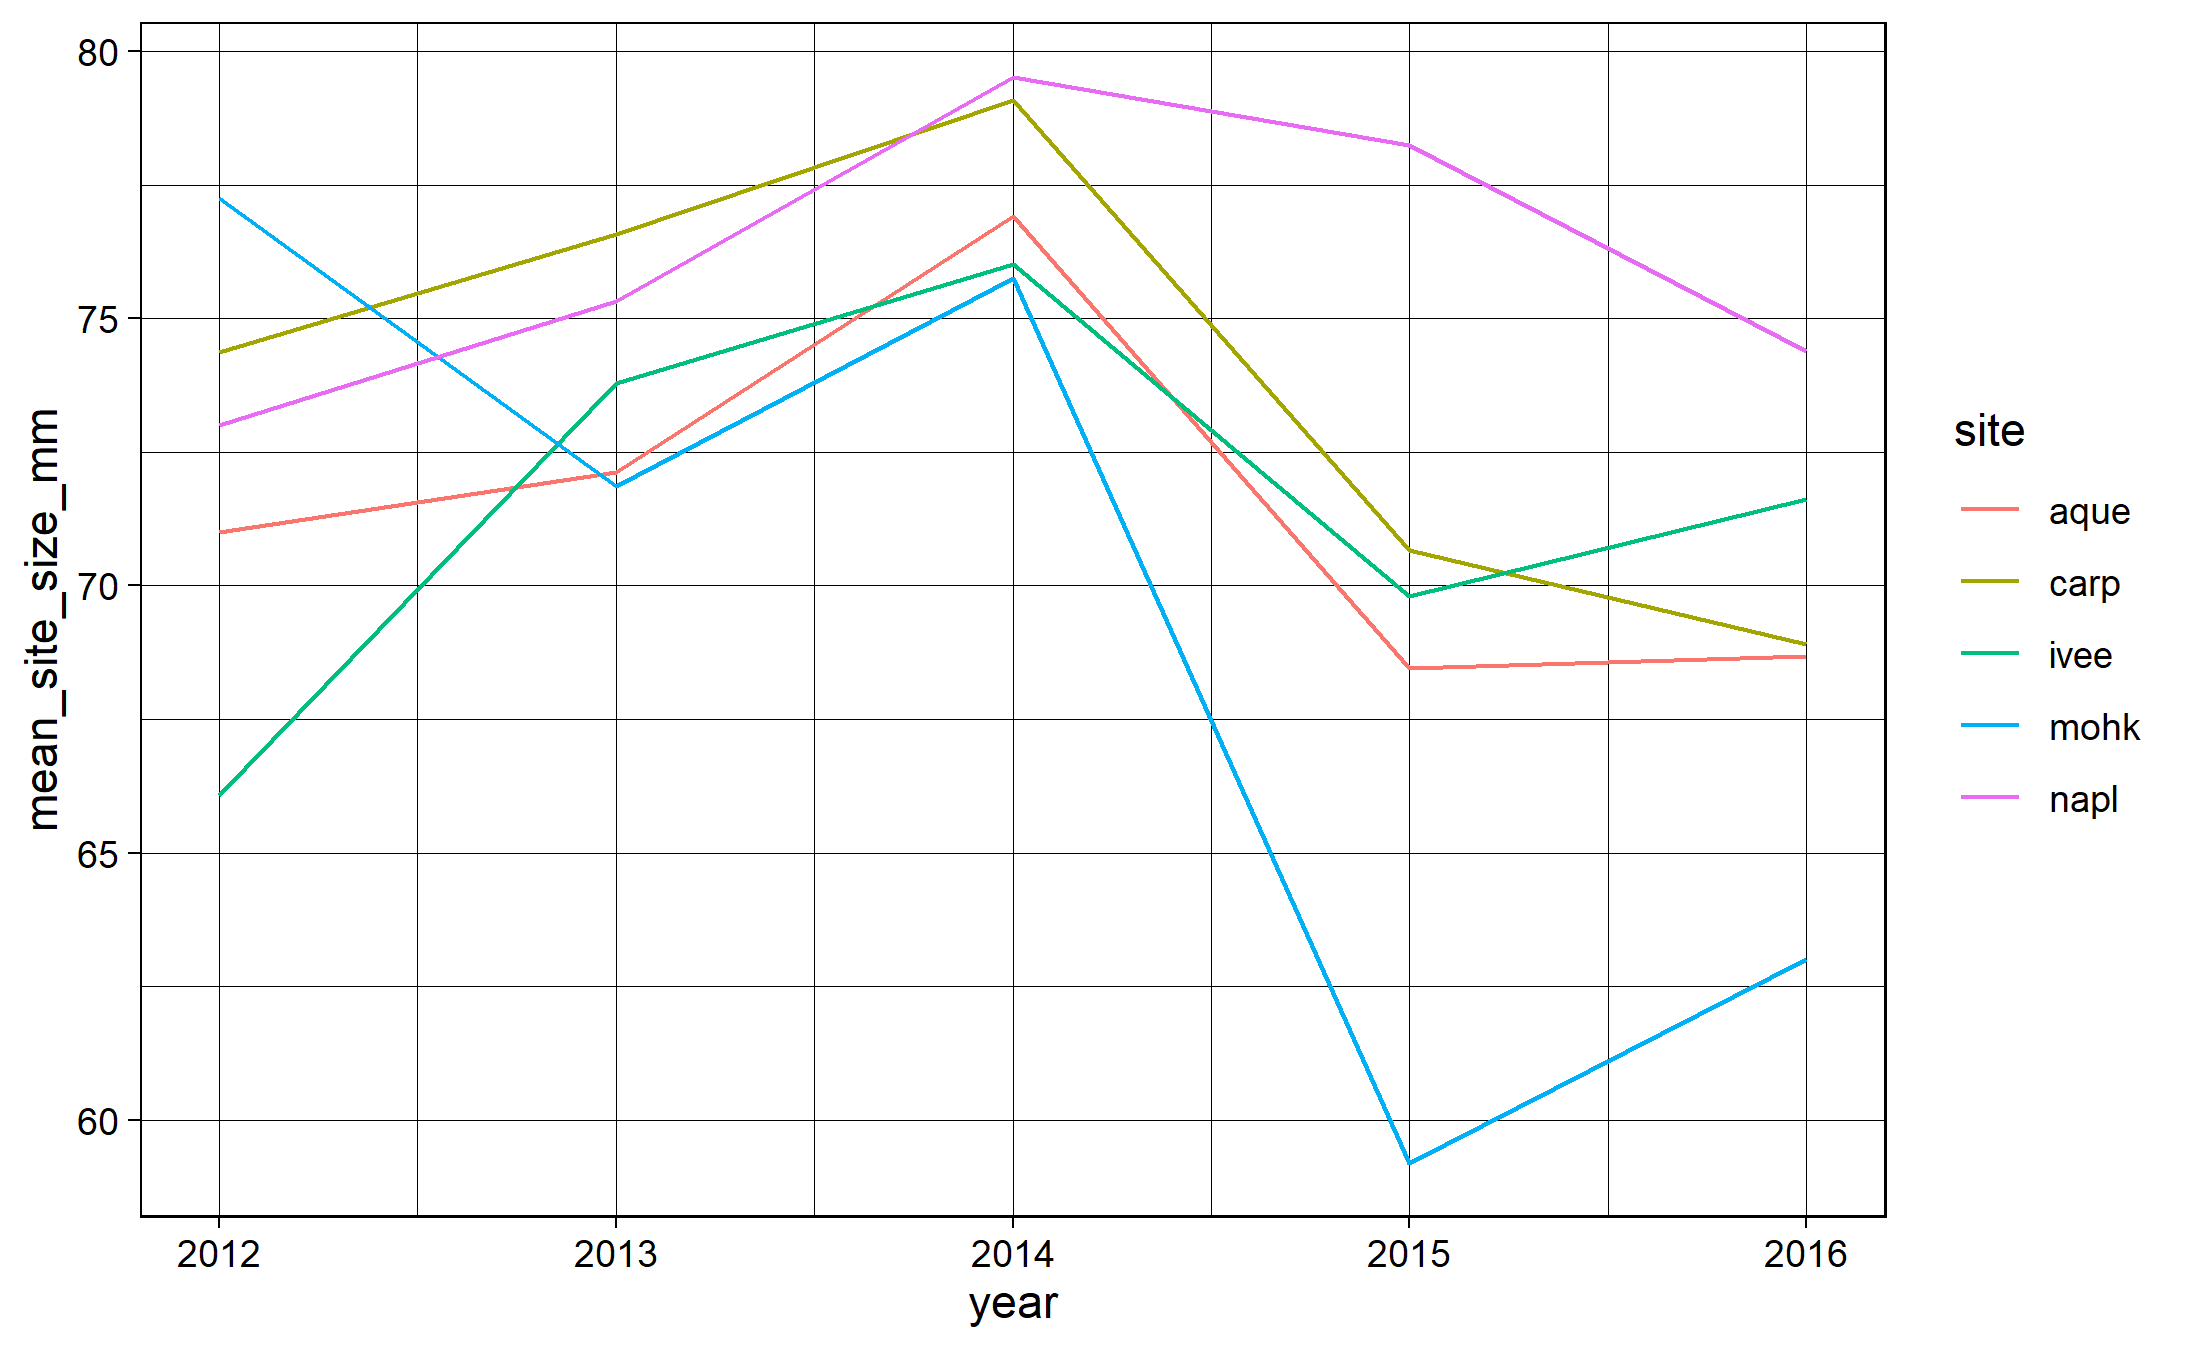
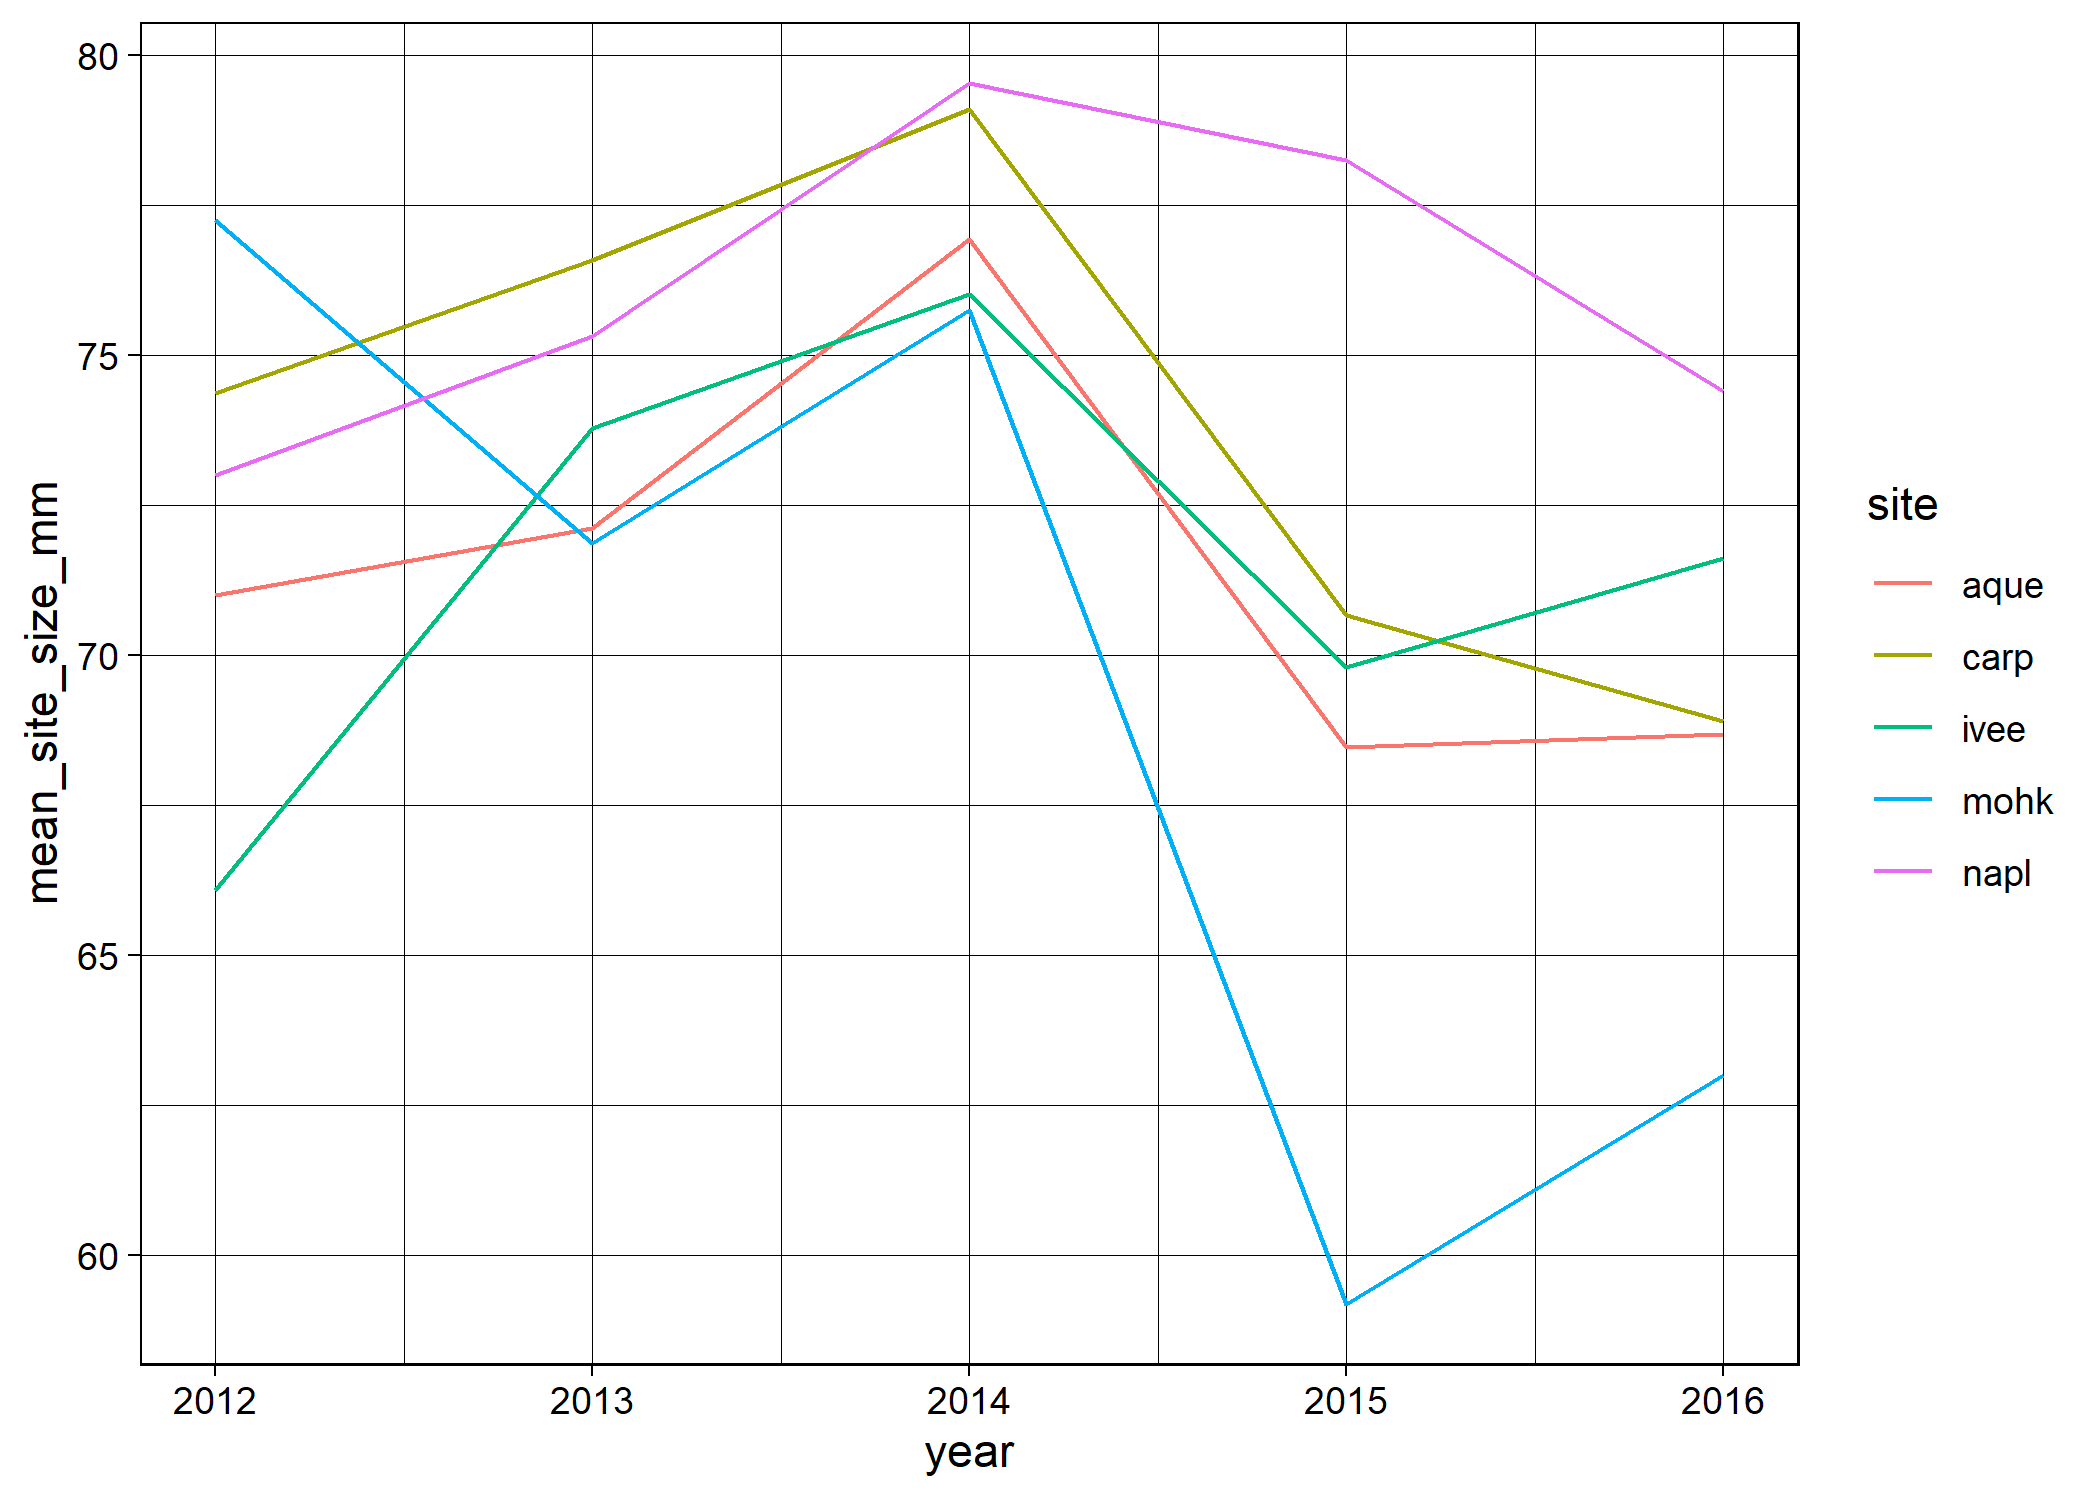
updated the knit

diff --git a/pivot_lobsters.html b/pivot_lobsters.html
@@ -1282,6 +1282,327 @@ napl
 </table>
 <p>There are 2893 total lobsters included in this report.</p>
 </div>
+<div id="analysis" class="section level2">
+<h2>Analysis</h2>
+<p>Here we will: - Build a median lobster size for each site and year - Create a ggplot and save it</p>
+<div id="lobster-size-median-by-site" class="section level3">
+<h3>Lobster Size Median by site</h3>
+<pre class="r"><code>#lobsta_site_year_sum
+
+
+lobsta_med &lt;-
+  lobsta_site_year_sum %&gt;% 
+  group_by(site,year) %&gt;% 
+  summarise(mean_site_size_mm = round(mean(mean_size_mm, na.rm = TRUE),2),
+                     )
+
+lobsta_med %&gt;%
+  kable()</code></pre>
+<table>
+<thead>
+<tr>
+<th style="text-align:left;">
+site
+</th>
+<th style="text-align:right;">
+year
+</th>
+<th style="text-align:right;">
+mean_site_size_mm
+</th>
+</tr>
+</thead>
+<tbody>
+<tr>
+<td style="text-align:left;">
+aque
+</td>
+<td style="text-align:right;">
+2012
+</td>
+<td style="text-align:right;">
+71.00
+</td>
+</tr>
+<tr>
+<td style="text-align:left;">
+aque
+</td>
+<td style="text-align:right;">
+2013
+</td>
+<td style="text-align:right;">
+72.12
+</td>
+</tr>
+<tr>
+<td style="text-align:left;">
+aque
+</td>
+<td style="text-align:right;">
+2014
+</td>
+<td style="text-align:right;">
+76.92
+</td>
+</tr>
+<tr>
+<td style="text-align:left;">
+aque
+</td>
+<td style="text-align:right;">
+2015
+</td>
+<td style="text-align:right;">
+68.46
+</td>
+</tr>
+<tr>
+<td style="text-align:left;">
+aque
+</td>
+<td style="text-align:right;">
+2016
+</td>
+<td style="text-align:right;">
+68.69
+</td>
+</tr>
+<tr>
+<td style="text-align:left;">
+carp
+</td>
+<td style="text-align:right;">
+2012
+</td>
+<td style="text-align:right;">
+74.36
+</td>
+</tr>
+<tr>
+<td style="text-align:left;">
+carp
+</td>
+<td style="text-align:right;">
+2013
+</td>
+<td style="text-align:right;">
+76.57
+</td>
+</tr>
+<tr>
+<td style="text-align:left;">
+carp
+</td>
+<td style="text-align:right;">
+2014
+</td>
+<td style="text-align:right;">
+79.09
+</td>
+</tr>
+<tr>
+<td style="text-align:left;">
+carp
+</td>
+<td style="text-align:right;">
+2015
+</td>
+<td style="text-align:right;">
+70.66
+</td>
+</tr>
+<tr>
+<td style="text-align:left;">
+carp
+</td>
+<td style="text-align:right;">
+2016
+</td>
+<td style="text-align:right;">
+68.90
+</td>
+</tr>
+<tr>
+<td style="text-align:left;">
+ivee
+</td>
+<td style="text-align:right;">
+2012
+</td>
+<td style="text-align:right;">
+66.08
+</td>
+</tr>
+<tr>
+<td style="text-align:left;">
+ivee
+</td>
+<td style="text-align:right;">
+2013
+</td>
+<td style="text-align:right;">
+73.78
+</td>
+</tr>
+<tr>
+<td style="text-align:left;">
+ivee
+</td>
+<td style="text-align:right;">
+2014
+</td>
+<td style="text-align:right;">
+76.02
+</td>
+</tr>
+<tr>
+<td style="text-align:left;">
+ivee
+</td>
+<td style="text-align:right;">
+2015
+</td>
+<td style="text-align:right;">
+69.80
+</td>
+</tr>
+<tr>
+<td style="text-align:left;">
+ivee
+</td>
+<td style="text-align:right;">
+2016
+</td>
+<td style="text-align:right;">
+71.62
+</td>
+</tr>
+<tr>
+<td style="text-align:left;">
+mohk
+</td>
+<td style="text-align:right;">
+2012
+</td>
+<td style="text-align:right;">
+77.25
+</td>
+</tr>
+<tr>
+<td style="text-align:left;">
+mohk
+</td>
+<td style="text-align:right;">
+2013
+</td>
+<td style="text-align:right;">
+71.87
+</td>
+</tr>
+<tr>
+<td style="text-align:left;">
+mohk
+</td>
+<td style="text-align:right;">
+2014
+</td>
+<td style="text-align:right;">
+75.75
+</td>
+</tr>
+<tr>
+<td style="text-align:left;">
+mohk
+</td>
+<td style="text-align:right;">
+2015
+</td>
+<td style="text-align:right;">
+59.20
+</td>
+</tr>
+<tr>
+<td style="text-align:left;">
+mohk
+</td>
+<td style="text-align:right;">
+2016
+</td>
+<td style="text-align:right;">
+63.01
+</td>
+</tr>
+<tr>
+<td style="text-align:left;">
+napl
+</td>
+<td style="text-align:right;">
+2012
+</td>
+<td style="text-align:right;">
+73.00
+</td>
+</tr>
+<tr>
+<td style="text-align:left;">
+napl
+</td>
+<td style="text-align:right;">
+2013
+</td>
+<td style="text-align:right;">
+75.32
+</td>
+</tr>
+<tr>
+<td style="text-align:left;">
+napl
+</td>
+<td style="text-align:right;">
+2014
+</td>
+<td style="text-align:right;">
+79.52
+</td>
+</tr>
+<tr>
+<td style="text-align:left;">
+napl
+</td>
+<td style="text-align:right;">
+2015
+</td>
+<td style="text-align:right;">
+78.24
+</td>
+</tr>
+<tr>
+<td style="text-align:left;">
+napl
+</td>
+<td style="text-align:right;">
+2016
+</td>
+<td style="text-align:right;">
+74.39
+</td>
+</tr>
+</tbody>
+</table>
+</div>
+<div id="ggplot-of-median-lobster-size" class="section level3">
+<h3>ggplot of median lobster size</h3>
+<pre class="r"><code>lobsta_plot &lt;-  ggplot(data = lobsta_med, aes(x=year, y = mean_site_size_mm)) 
+
+
+
+lobsta_plot + geom_line(aes(color = site)) + theme_linedraw()</code></pre>
[1 lines of base64/hex data omitted]
+<pre class="r"><code>ggsave(here(&quot;figures&quot;,&quot;lobsta_plot.png&quot;))</code></pre>
+<pre><code>## Saving 7 x 5 in image</code></pre>
+</div>
+</div>
 
 
 
